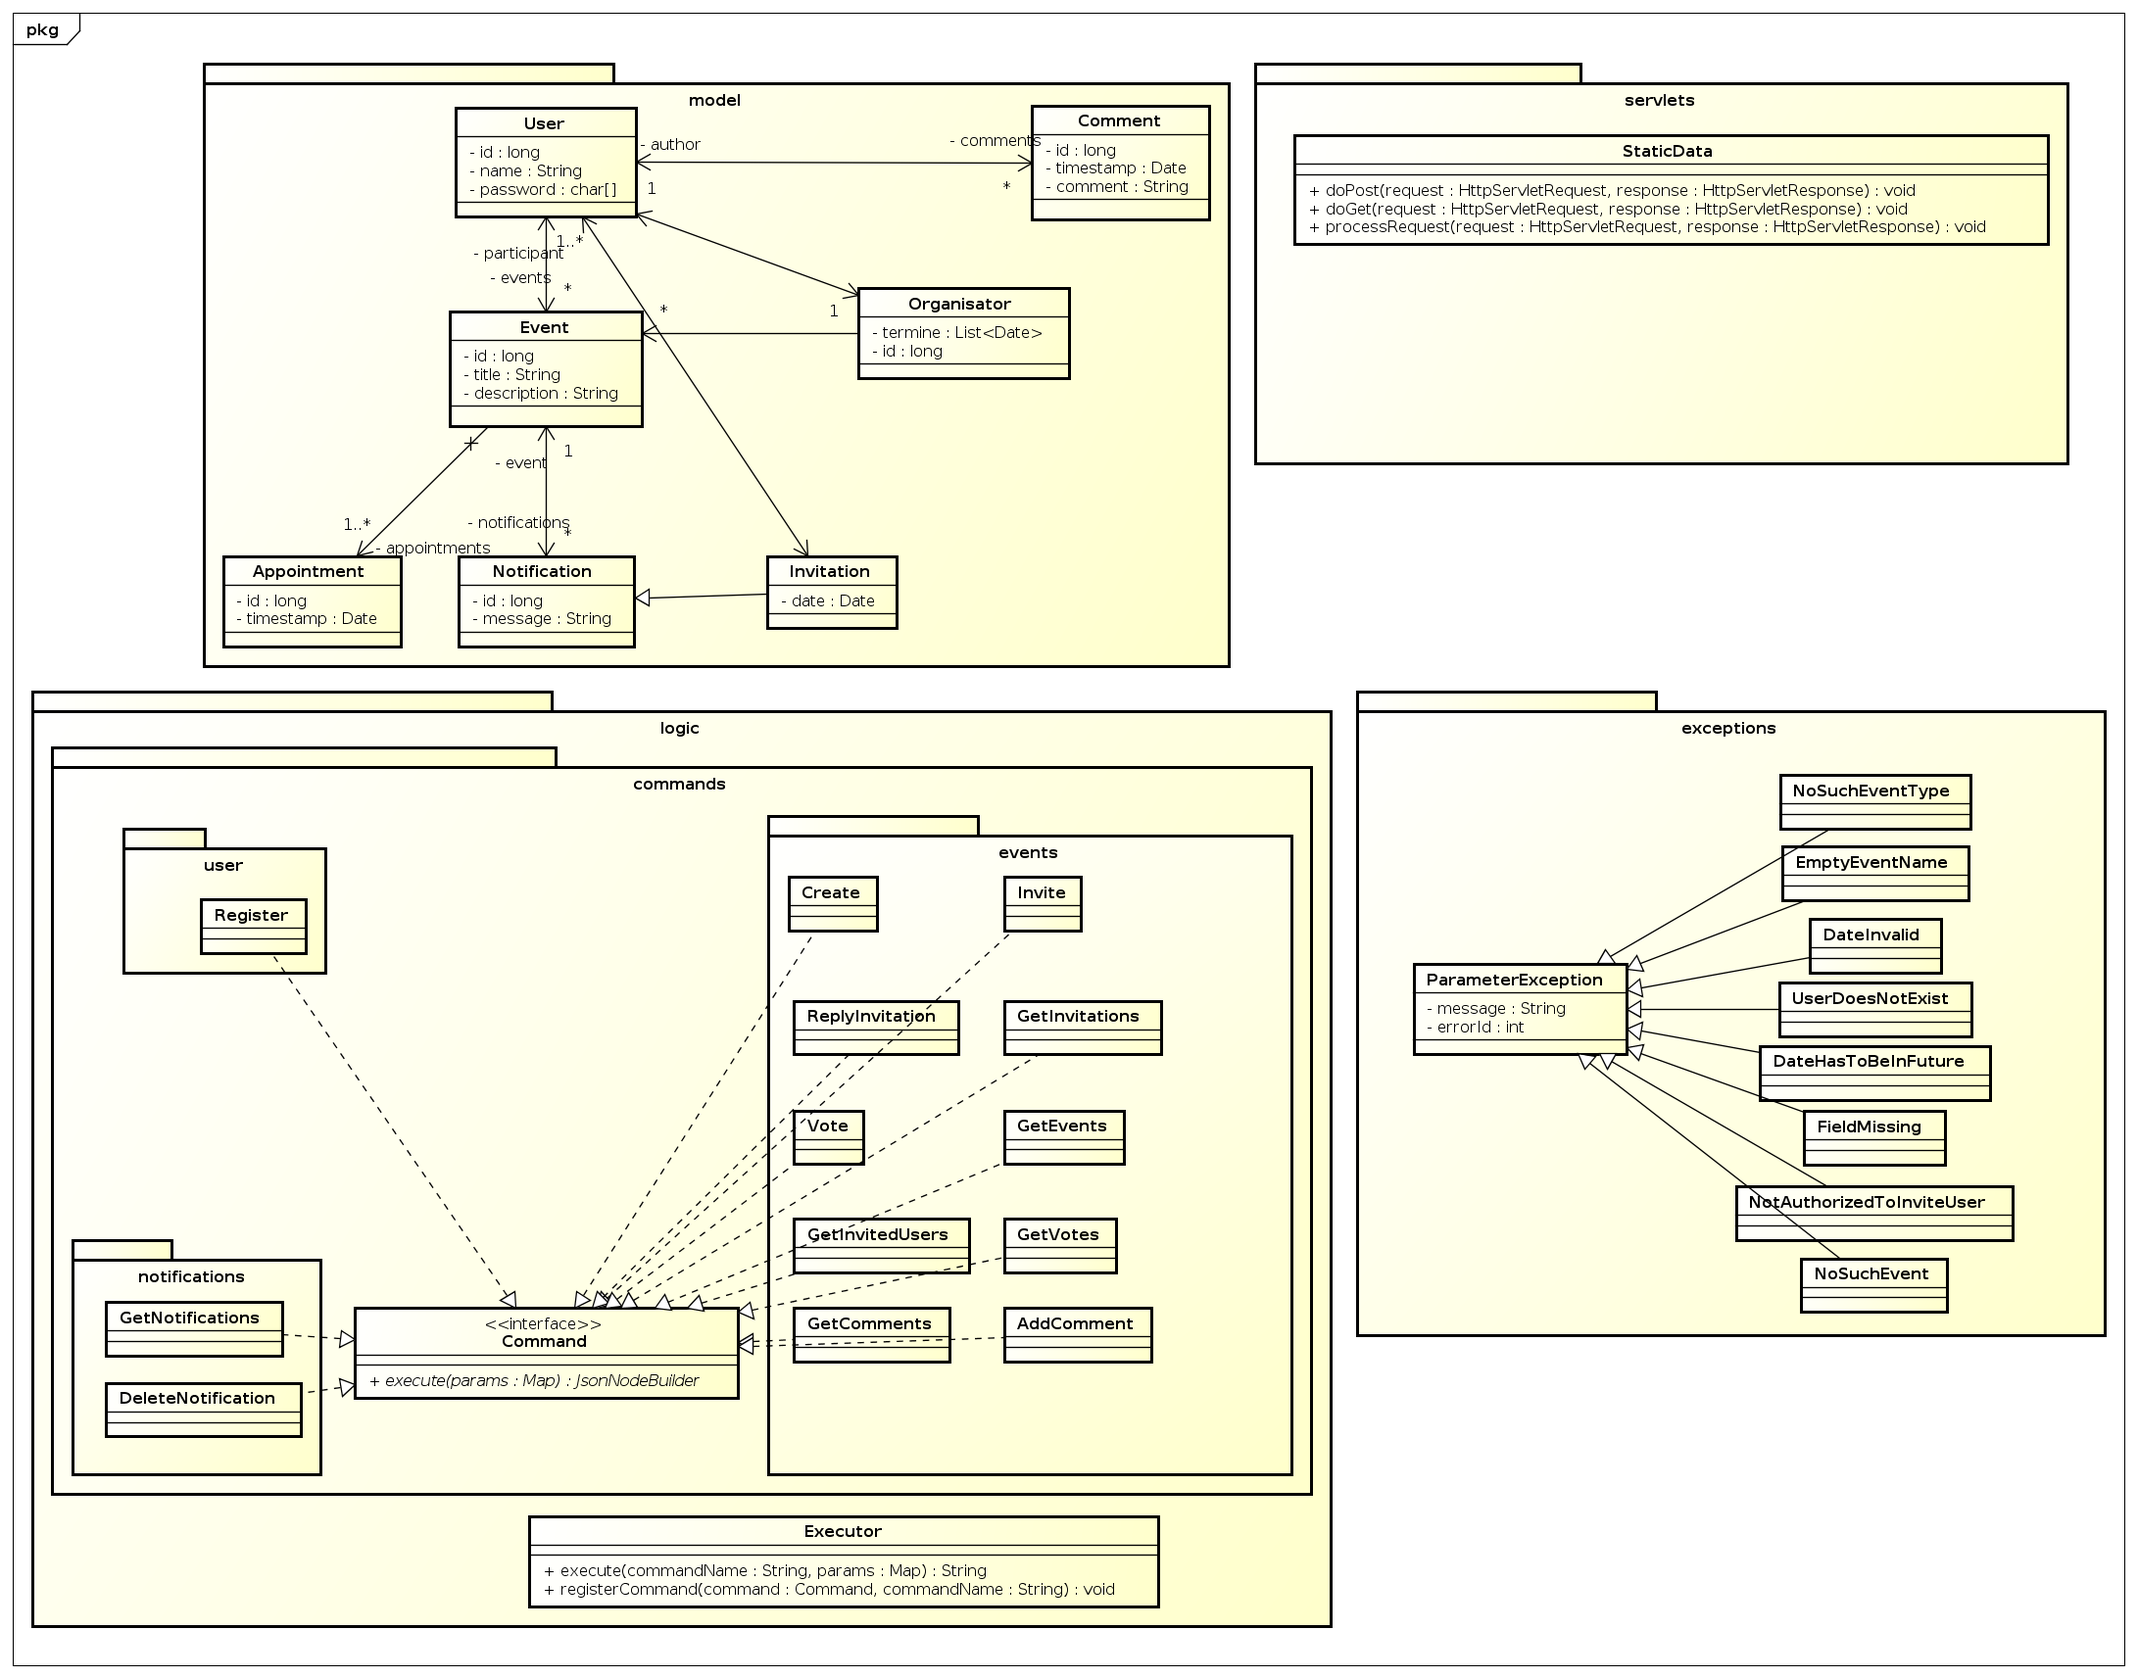
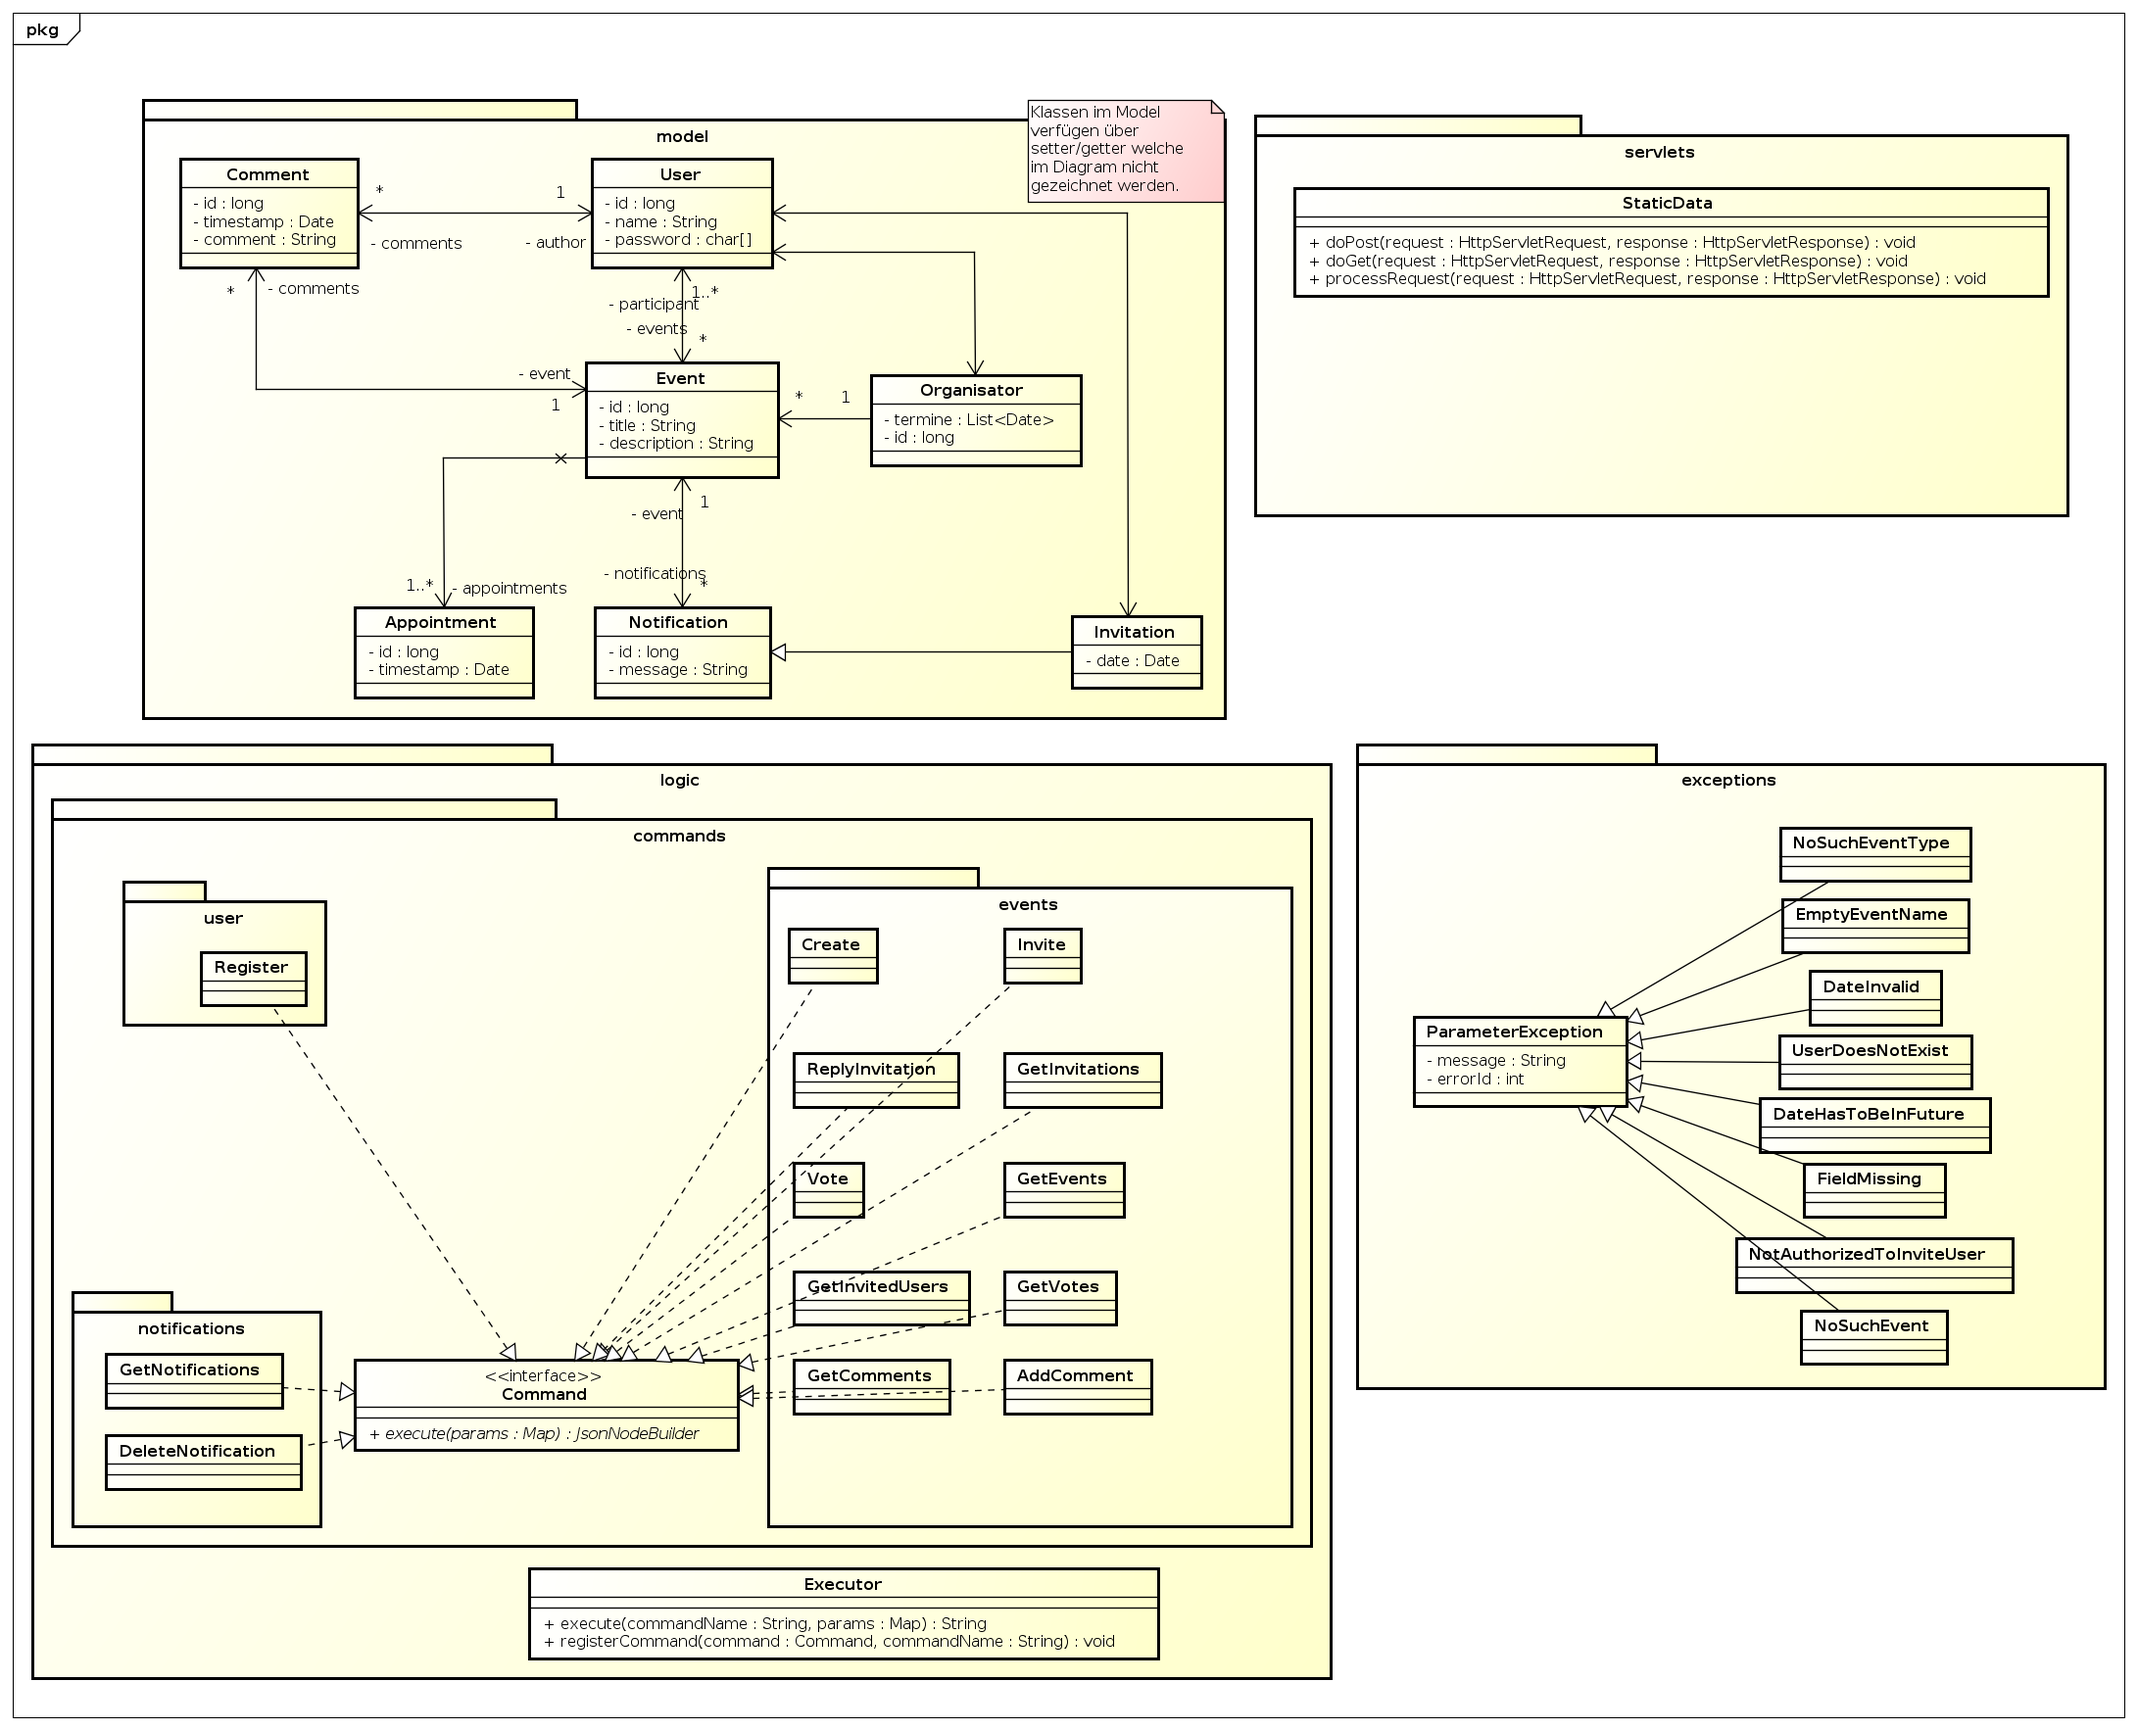
AddComment implementation
+ nötige Änderung am Modell
  Es war keine Beziehung zwischen Event & Comment vorhanden

Changed region(s): [[0.0, 0.0309, 0.9973, 1.0], [0.7168, 0.2785, 0.9661, 0.3094], [0.0, 0.0, 0.0312, 0.0309]]

diff --git a/src/main/java/kehd/bigpicture/logic/commands/events/AddComment.java b/src/main/java/kehd/bigpicture/logic/commands/events/AddComment.java
@@ -1,6 +1,9 @@
 package kehd.bigpicture.logic.commands.events;
 
 import argo.jdom.JsonNodeBuilder;
+import kehd.bigpicture.exceptions.NoSuchElement;
+import kehd.bigpicture.exceptions.ParameterException;
+import kehd.bigpicture.exceptions.UserDoesNotExist;
 import kehd.bigpicture.logic.commands.Command;
 import kehd.bigpicture.model.Comment;
 import kehd.bigpicture.model.Event;
@@ -8,7 +11,10 @@ import kehd.bigpicture.model.User;
 
 import javax.persistence.EntityManager;
 import javax.persistence.EntityManagerFactory;
+import javax.persistence.NoResultException;
 import java.util.Map;
+
+import static argo.jdom.JsonNodeBuilders.aStringBuilder;
 
 public class AddComment implements Command {
     private EntityManagerFactory entityManagerFactory;
@@ -18,37 +24,49 @@ public class AddComment implements Command {
     }
 
     @Override
-    public JsonNodeBuilder execute(Map<String, String> params) {
+    public JsonNodeBuilder execute(Map<String, String> params) throws ParameterException {
         String eventName = params.get("eventName");
-        // TODO Comment title aus Planung entfernen
-        //String title = params.get("title");
         String content = params.get("content");
         String userName = params.get("userName");
 
         EntityManager manager = entityManagerFactory.createEntityManager();
         manager.getTransaction().begin();
 
-        User user = manager.createQuery(
-                "SELECT DISTINCT User " +
-                        "FROM User " +
-                        "WHERE User.name = :userName", User.class)
-                .setParameter("userName", userName)
-                .getSingleResult();
+        User user;
+        try {
+            user = manager.createQuery(
+                    "SELECT DISTINCT User " +
+                            "FROM User " +
+                            "WHERE User.name = :userName", User.class)
+                    .setParameter("userName", userName)
+                    .getSingleResult();
+
+
+        } catch (NoResultException noResultException) {
+            throw new UserDoesNotExist(noResultException);
+        }
+
+        Event event;
+        try {
+            event = manager.createQuery(
+                    "SELECT DISTINCT Event " +
+                            "FROM Event " +
+                            "WHERE Event.title = :eventName", Event.class)
+                    .setParameter("eventName", eventName)
+                    .getSingleResult();
+        } catch (NoResultException noResultException) {
+            throw new NoSuchElement("Event", noResultException);
+        }
 
         Comment comment = new Comment();
         comment.setComment(content);
         comment.setUser(user);
+        comment.setEvent(event);
 
-        Event event = manager.createQuery(
-                "SELECT DISTINCT Event " +
-                        "FROM Event " +
-                        "WHERE Event.title = :eventName", Event.class)
-                .setParameter("eventName", eventName)
-                .getSingleResult();
+        manager.persist(comment);
 
-        //event
-        // TODO Beziehung zwischen Comment & Event
+        manager.getTransaction().commit();
 
-        return null;
+        return aStringBuilder("Okay!");
     }
 }

diff --git a/src/main/java/kehd/bigpicture/model/Event.java b/src/main/java/kehd/bigpicture/model/Event.java
@@ -19,6 +19,9 @@ public class Event {
 	@OneToMany
 	private Collection<Appointment> appointments;
 
+    @OneToMany
+    private Collection<Comment> comments;
+
 	public String getTitle() {
 		return title;
 	}
@@ -50,4 +53,12 @@ public class Event {
 	public void setId(long id) {
 		this.id = id;
 	}
+
+    public Collection<Comment> getComments() {
+        return comments;
+    }
+
+    public void setComments(Collection<Comment> comments) {
+        this.comments = comments;
+    }
 }

diff --git a/src/main/java/kehd/bigpicture/model/Comment.java b/src/main/java/kehd/bigpicture/model/Comment.java
@@ -19,6 +19,9 @@ public class Comment {
 	@ManyToOne //Mehrere Comments koennen von einem User erstellt werden.
 	private User user;
 
+    @ManyToOne
+    private Event event;
+
 	public long getId() {
 		return id;
 	}
@@ -51,6 +54,11 @@ public class Comment {
 		this.user = user;
 	}
 
-	
+    public Event getEvent() {
+        return event;
+    }
 
+    public void setEvent(Event event) {
+        this.event = event;
+    }
 }

diff --git a/src/main/java/kehd/bigpicture/logic/commands/Command.java b/src/main/java/kehd/bigpicture/logic/commands/Command.java
@@ -8,8 +8,6 @@ import java.text.SimpleDateFormat;
 import java.util.Map;
 
 public interface Command {
-
-
     /**
      * DateFormat to be used by command implementations.
      */

diff --git a/README.rst b/README.rst
@@ -201,10 +201,10 @@ create
 invite
                      - eventName          - error:
                      - date
-                     - users                * ""
+                     - username             * ""
                                             * "No such event."
-                       [username1,          * "User <username> does not exist."
-                       username2, ...]      * "Not authorized to invite users
+                                            * "User <username> does not exist."
+                                            * "Not authorized to invite users
                                               to this event."
                                             * "Date has to be in the future."
 replyInvitation
@@ -245,8 +245,8 @@ getComments
                                             [{title, content, timestamp}, ...]
 addComment
                      - eventName          - error
-                     - title
-                     - content              * ""
+                     - content
+                                            * ""
                                             * "No such event."
                                             * "Empty title."
                                             * "Empty content."
@@ -523,6 +523,8 @@ Zeitaufzeichnung
 | AddComment Implementation     | 2014-06-02    | Jakob Klepp       |  02:15  |  02:30  |     0:15 |
 +-------------------------------+---------------+-------------------+---------+---------+----------+
 | Commands aufräumen/ergänzen   | 2014-06-02    | Jakob Klepp       |  11:00  |  12:00  |     1:00 |
++-------------------------------+---------------+-------------------+---------+---------+----------+
+| AddComment Implementation     | 2014-06-02    | Jakob Klepp       |  14:30  |  14:45  |     0:15 |
 +-------------------------------+---------------+-------------------+---------+---------+----------+
 
 +-------------------+------------+
